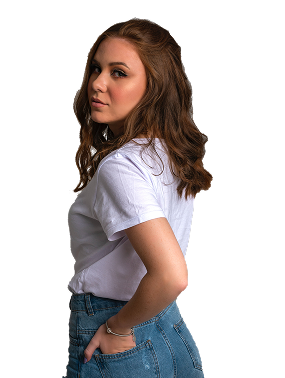
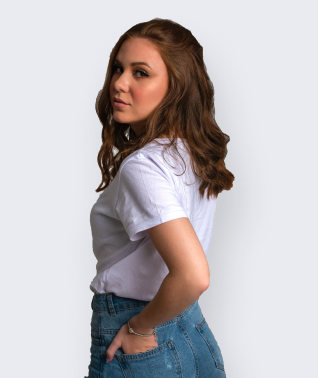
exclusive-offer done

Changed region(s): [[0.1965, 0.0291, 0.8421, 1.0], [0.4491, 0.9894, 0.4772, 1.0]]

diff --git a/Rivo-layout/css/style.css b/Rivo-layout/css/style.css
@@ -223,7 +223,7 @@ section.our-products {
 
     .active {
       color: #224f34;
-      border-bottom:  2px solid #224f34;
+      border-bottom: 2px solid #224f34;
     }
   }
 
@@ -256,6 +256,100 @@ section.our-products {
 
       .info {
         margin-top: 36px;
+      }
+    }
+  }
+}
+
+section.exclusive-offer {
+  padding-block: 97px 109px;
+  position: relative;
+  z-index: -999;
+
+  .container {
+    z-index: -999;
+    position: relative;
+  }
+
+  .wrap {
+    background: #c2efd4;
+    border-radius: 3px;
+    display: flex;
+    position: relative;
+    align-items: center;
+    justify-content: space-between;
+    z-index: -2;
+
+    .decor {
+      position: absolute;
+      left: 41px;
+      bottom: 41px;
+      z-index: -1;
+    }
+
+    .media {
+      margin-left: 81px;
+      align-self: flex-end;
+    }
+
+    .content {
+      margin-right: 121px;
+      margin-block: 10px;
+      color: #224f34;
+      font-family: var(--font-family);
+      width: 590px;
+
+      h2 {
+        font-weight: 700;
+        font-size: 46px;
+        margin-bottom: 20px;
+      }
+
+      p {
+        font-weight: 500;
+        font-size: 22px;
+        line-height: 167%;
+      }
+
+      .timer {
+        display: flex;
+        gap: 35px;
+        margin-block: 40px;
+
+        .timer__item {
+          border-radius: 3px;
+          box-shadow: 0 7px 30px 0 rgba(0, 0, 0, 0.05);
+          width: 100px;
+          height: 100px;
+          background-color: white;
+          display: flex;
+          flex-direction: column;
+          align-items: center;
+          justify-content: center;
+          gap: 8px;
+
+          .timer__value {
+            font-weight: 600;
+            font-size: 32px;
+          }
+
+          .timer__label {
+            font-weight: 500;
+            font-size: 16px;
+          }
+        }
+      }
+
+      a.button {
+        display: inline-block;
+        font-weight: 500;
+        font-size: 20px;
+        text-transform: uppercase;
+        color: #fff;
+        border-radius: 3px;
+        box-shadow: 0 7px 30px 0 rgba(0, 0, 0, 0.05);
+        background: #224f34;
+        padding: 22px 70px;
       }
     }
   }

diff --git a/Rivo-layout/index.html b/Rivo-layout/index.html
@@ -187,7 +187,7 @@
             </div>
           </div>
         </div>
-        
+
         <div class="card" data-category="hot new-arrivals sale">
           <div class="img-wrap">
             <img class="product-img" src="images/our-products/2.png" alt="">
@@ -319,6 +319,46 @@
               </div>
             </div>
           </div>
+        </div>
+
+      </div>
+
+    </div>
+  </section>
+
+  <section class="exclusive-offer">
+    <div class="container">
+
+      <div class="wrap">
+        <img class="decor" src="images/decor/Group 48.svg" alt="">
+
+        <div class="media">
+          <img
+            src="images/excited-white-girl-bright-stylish-glasses-posing-pink-dreamy-curly-woman-playing-with-her-ginger-hair-laughing 1.png"
+            alt="">
+        </div>
+
+        <div class="content">
+          <h2>Exclusive offer</h2>
+          <p>
+            Unlock the ultimate style upgrade with our exclusive offer Enjoy savings of up to 40% off on our latest New
+            Arrivals
+          </p>
+          <div class="timer" data-deadline="2026-10-05T18:00:00">
+            <div class="timer__item">
+              <span class="timer__value" data-unit="days">06</span>
+              <span class="timer__label">Days</span>
+            </div>
+            <div class="timer__item">
+              <span class="timer__value" data-unit="hours">18</span>
+              <span class="timer__label">Hours</span>
+            </div>
+            <div class="timer__item">
+              <span class="timer__value" data-unit="minutes">48</span>
+              <span class="timer__label">Min</span>
+            </div>
+          </div>
+          <a href="/" class="button">BUY NOW</a>
         </div>
 
       </div>

diff --git a/Rivo-layout/css/media.css b/Rivo-layout/css/media.css
@@ -2,6 +2,7 @@
   .container {
     max-width: 100vw;
   }
+
   .first-screen {
     header {
       justify-content: space-around;
@@ -26,6 +27,18 @@
   section.best-selling {
     .products {
       justify-content: space-around;
+    }
+  }
+
+  section.exclusive-offer {
+    .wrap {
+      justify-content: space-around;
+      .media {
+        margin-left: 20px;
+      }
+      .content {
+        margin-right: 20px;
+      }
     }
   }
 }
